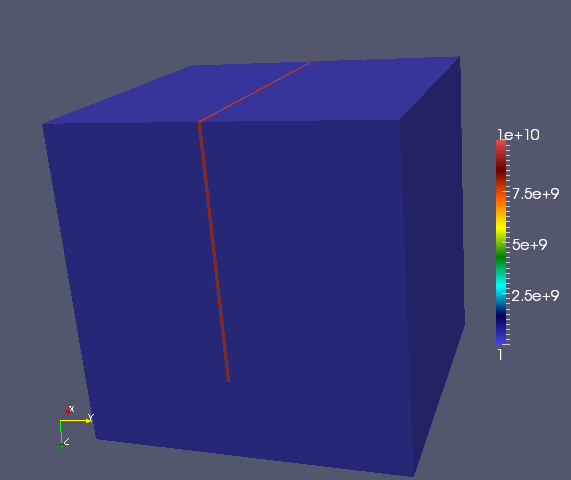
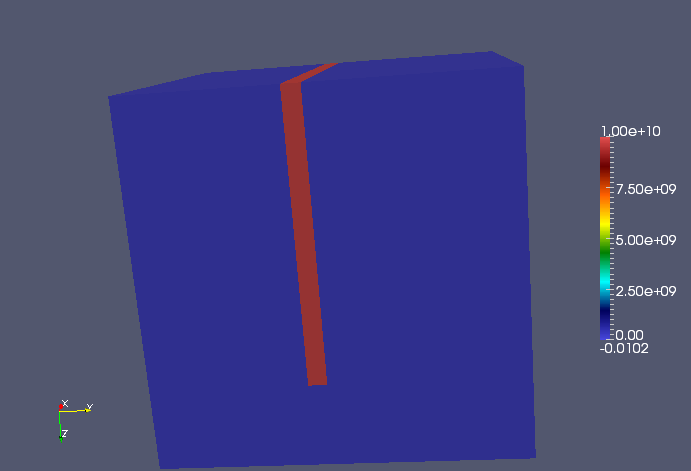
Modifying high-contrast separator model to keep a fixed separator size, and adding note about PML size and its effect on the waveguide problem.

diff --git a/tests/UnitCube.cpp b/tests/UnitCube.cpp
@@ -374,8 +374,9 @@ main( int argc, char* argv[] )
                 for( int yLocal=0; yLocal<yLocalSize; ++yLocal )
                 {
                     const int y = yShift + yLocal*py;
+                    const double Y = y / (n+1.0);
                     double speed;
-                    if( y >= n/2-6 && y < n/2-4 && z <= 3*n/4 )
+                    if( Y >= 0.4 && Y < 0.45 && Z <= 0.75 )
                         speed = 1e10;
                     else
                         speed = 1.;

diff --git a/doc/source/tests.rst b/doc/source/tests.rst
@@ -201,13 +201,18 @@ The middle YZ plane of the plane wave solution.
 Wave guide example
 ^^^^^^^^^^^^^^^^^^
 This third example uses the wave guide velocity model over a 
-:math:`500 \times 500 \times 500` grid, again at 235.62 rad/sec. The command
-was::
+:math:`500 \times 500 \times 500` grid, again at 235.62 rad/sec. Using five 
+grid points of PML, with a coordinate-stretching magnitude of 2.0, via::
 
     UnitCube 2 500 235.62 1 5 2.0
 
 and all four residuals converged to five digits of relative accuracy in 
-51 iterations of GMRES(20) on 256 nodes of TACC's Lonestar.
+51 iterations of GMRES(20) on 256 nodes of TACC's Lonestar. With six grid points
+of PML, via::
+
+    UnitCube 2 500 235.62 1 6 2.0
+
+the same model converged in 26 iterations.
 
 .. image:: solution-guide-singleShot-YZ-37.5.png
 
